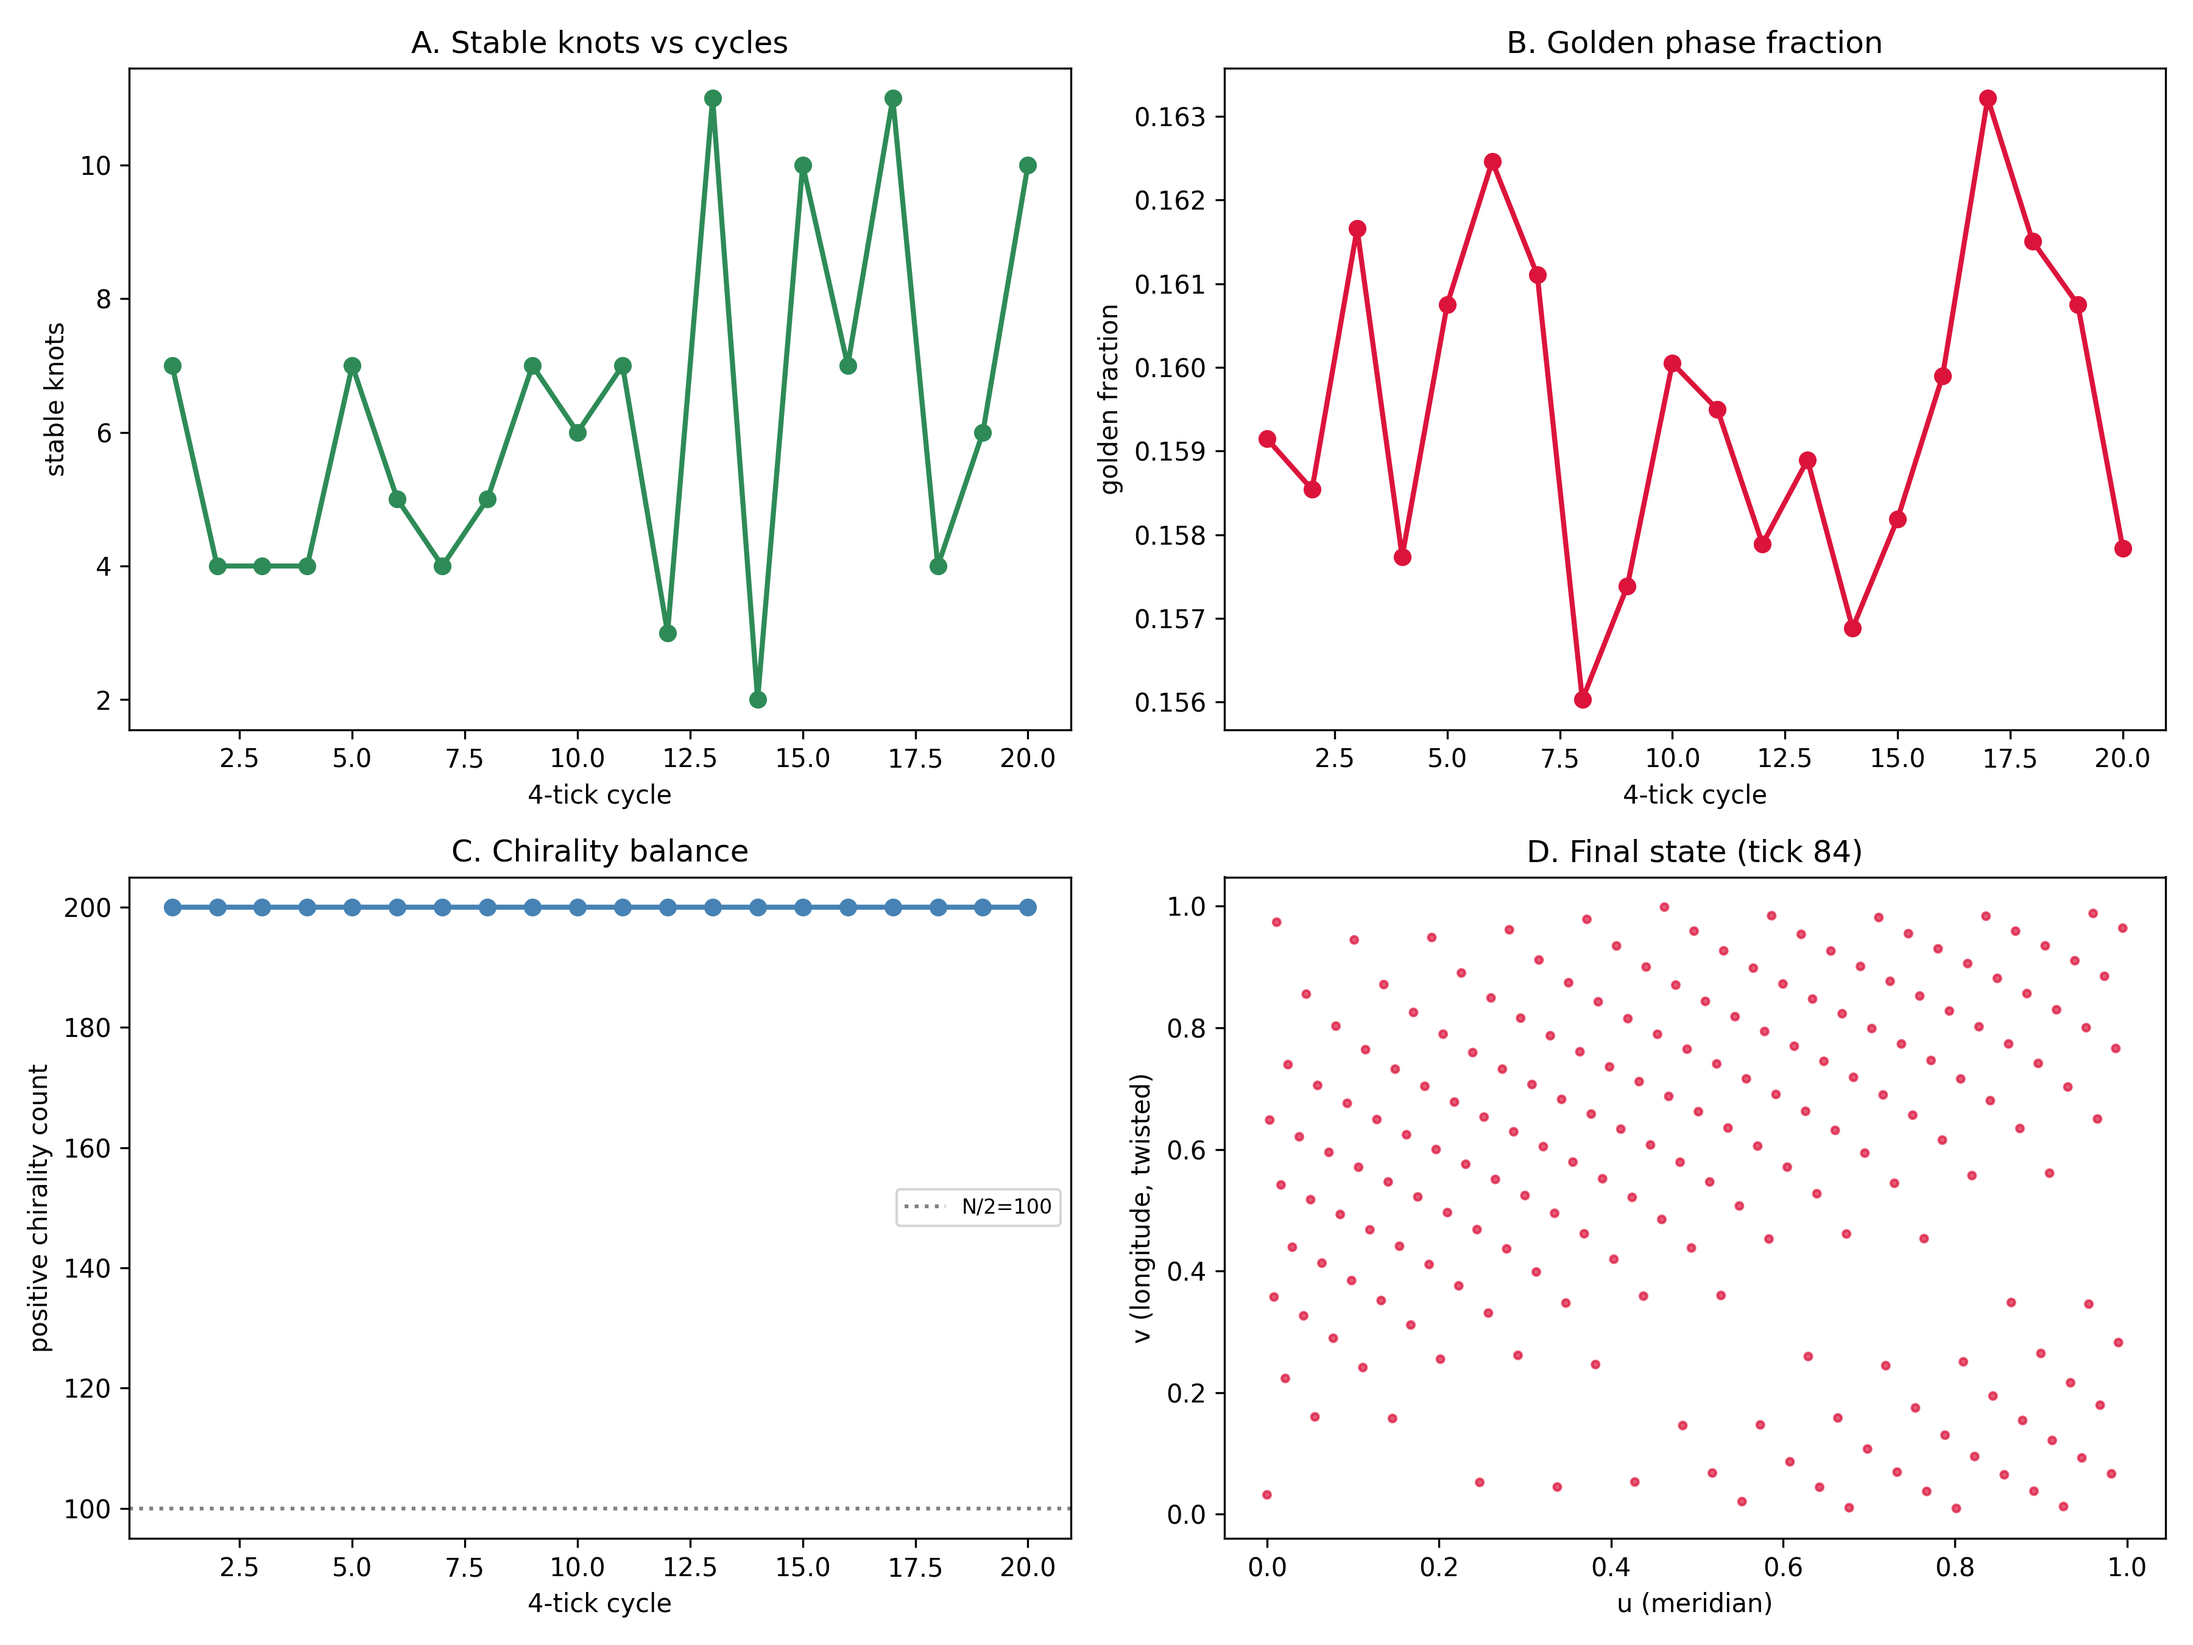
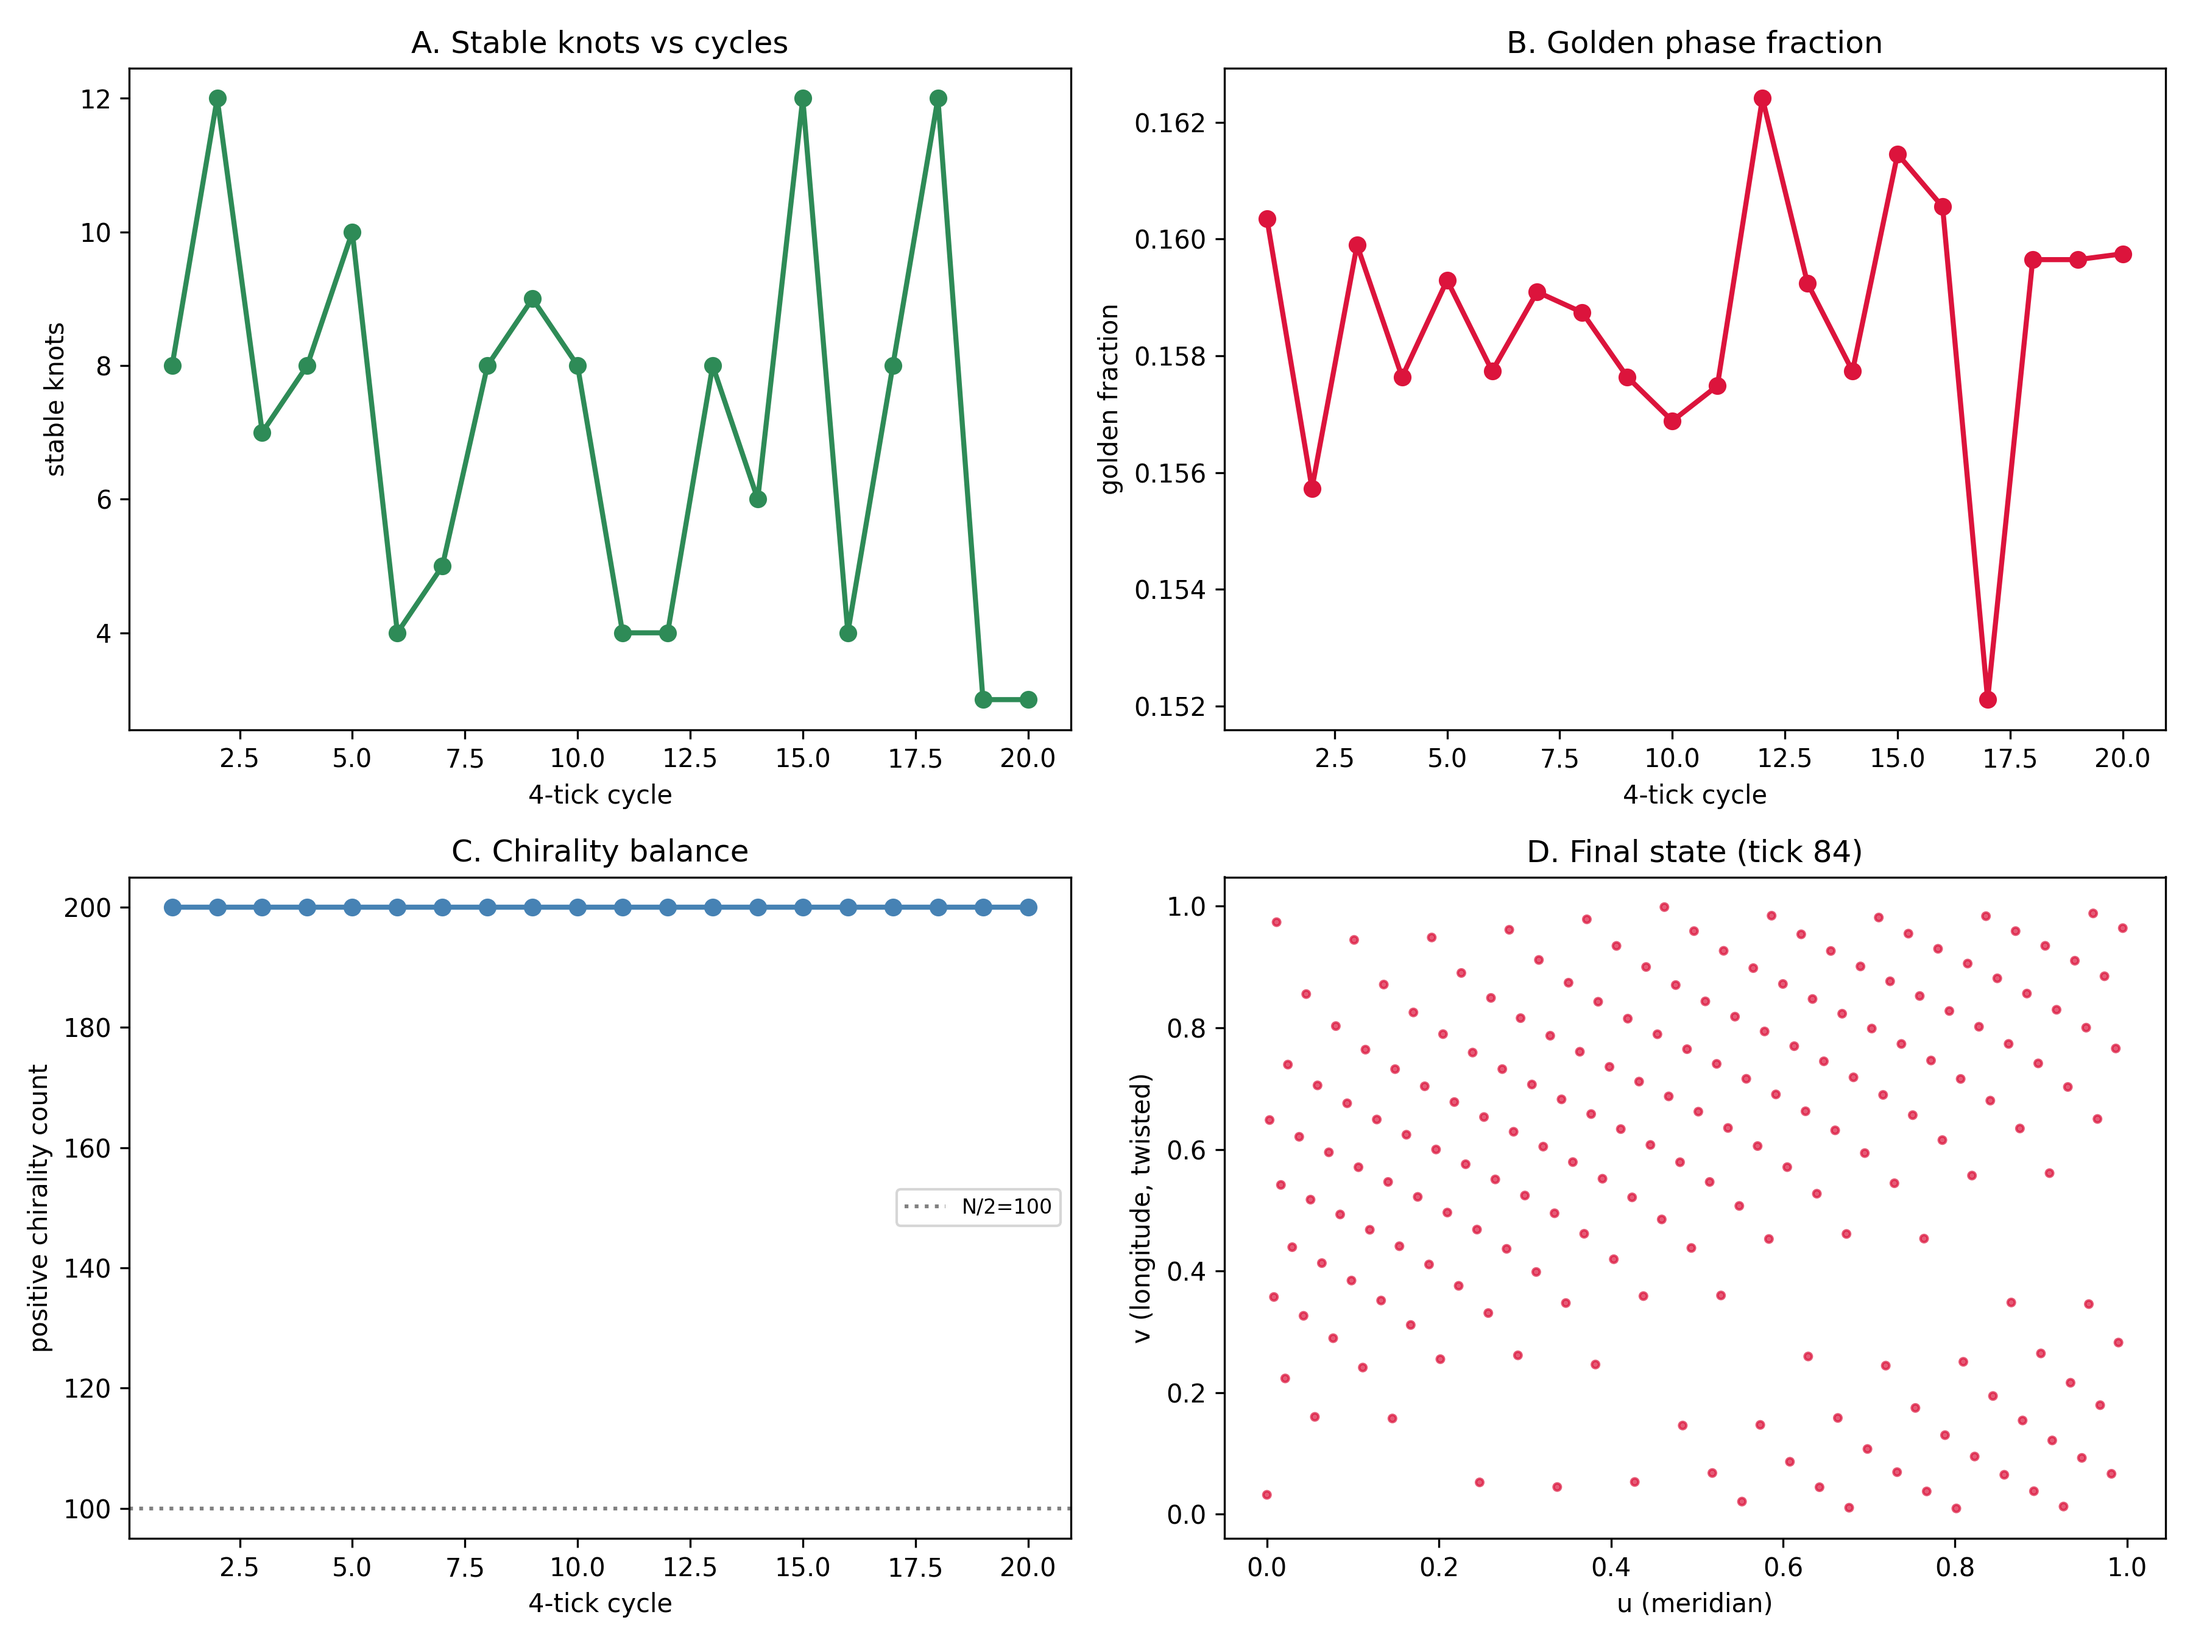
fix: cross-twist propagation with parity inversion. klein_distance now returns twist flag, coupling uses signed weights (44.6% negative), amplitudes drop from 1.0->0.91 (no saturation)

diff --git a/code/phase23a_plonk_cycle.py b/code/phase23a_plonk_cycle.py
@@ -62,7 +62,9 @@ def fibonacci_lattice(N, golden_angle=None):
 
 
 def klein_distance(u1, v1, u2, v2):
-    """Geodesic distance on Klein bottle [0,1)^2 with twist identification."""
+    """Geodesic distance on Klein bottle [0,1)^2 with twist identification.
+    Returns (distance, twist_flag) where twist_flag=True if the shortest
+    path crosses the orientation-reversing seam."""
     u1, v1 = np.atleast_1d(u1), np.atleast_1d(v1)
     u2, v2 = np.atleast_1d(u2), np.atleast_1d(v2)
     du = np.abs(u1[:,None] - u2[None,:])
@@ -76,11 +78,15 @@ def klein_distance(u1, v1, u2, v2):
         for sv in [1.0, -1.0]:
             d2 = np.minimum(d2, (du+su)**2 + (dv+sv)**2)
     # twist: (u1,v1) ~ (-u2, v2+0.5)
+    twist_mask = np.zeros(d2.shape, dtype=bool)
     for su in [0.0, 1.0, -1.0]:
         for sv in [0.0, 1.0, -1.0]:
-            d2t = (u1[:,None]+u2[None,:]+su)**2 + (v1[:,None]-v2[None,:]+0.5+sv)**2
-            d2 = np.minimum(d2, d2t)
-    return np.sqrt(np.maximum(d2, 0.0))
+            d2t = (u1[:,None]+u2[None,:]+su)**2 \
+                + (v1[:,None]-v2[None,:]+0.5+sv)**2
+            better = d2t < (d2 - 1e-12)
+            d2 = np.where(better, d2t, d2)
+            twist_mask |= better
+    return np.sqrt(np.maximum(d2, 0.0)), twist_mask
 
 
 class PlonkSubstrate:
@@ -95,7 +101,8 @@ class PlonkSubstrate:
         self.tick_count = 0
 
     def _golden_coupling(self):
-        """Coupling strength based on golden-ratio phase separations."""
+        """Coupling with parity inversion: twist-crossing pairs get
+        negative weight, modeling the orientation-reversing seam."""
         N = self.N
         phases = np.array([o.phase for o in self.oscillators])
         dp = np.abs(phases[:,None] - phases[None,:])
@@ -104,14 +111,22 @@ class PlonkSubstrate:
         for tgt in [2*np.pi*ALPHA_GOLD, 2*np.pi*(1-ALPHA_GOLD)]:
             golden_match |= np.abs(dp - tgt) < TOL
         np.fill_diagonal(golden_match, False)
-        # Spatial proximity on Klein surface
+
         us = np.array([o.u for o in self.oscillators])
         vs = np.array([o.v for o in self.oscillators])
-        d = klein_distance(us, vs, us, vs)
+        d, twist = klein_distance(us, vs, us, vs)
         J = np.exp(-d**2/(2*self.sigma**2))
         np.fill_diagonal(J, 0)
-        # Combine: golden pairs get 5× coupling
-        return np.where(golden_match, J*5.0, J*0.3)
+
+        # Parity inversion: twist-crossing pairs get negative sign
+        signs = np.where(twist, -1.0, 1.0)
+        np.fill_diagonal(signs, 0)
+
+        # Golden filtering with parity-aware sign
+        W = np.where(golden_match, J * 5.0 * signs,
+                     J * 0.3 * signs)
+        np.fill_diagonal(W, 0)
+        return W
 
     def plonk_tick(self):
         """One plonk tick: phase update + orientation advance + twist check."""
@@ -121,7 +136,8 @@ class PlonkSubstrate:
         amps = np.array([o.amp for o in self.oscillators])
 
         # Phase evolution: omega_0 + coupling from neighbours
-        coupling = self.gain * (W @ (chir * amps))
+        # (W already encodes parity inversion via twist signs)
+        coupling = self.gain * (W @ amps)
         new_phases = (phases + self.omega_0 + coupling) % (2*np.pi)
 
         # Update oscillators
